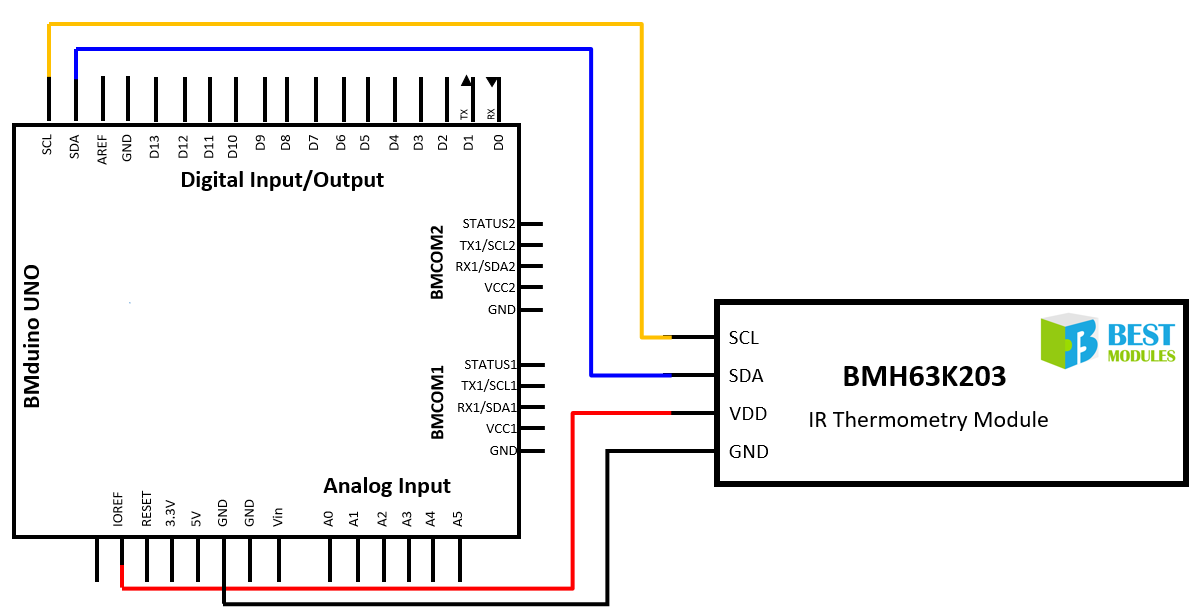
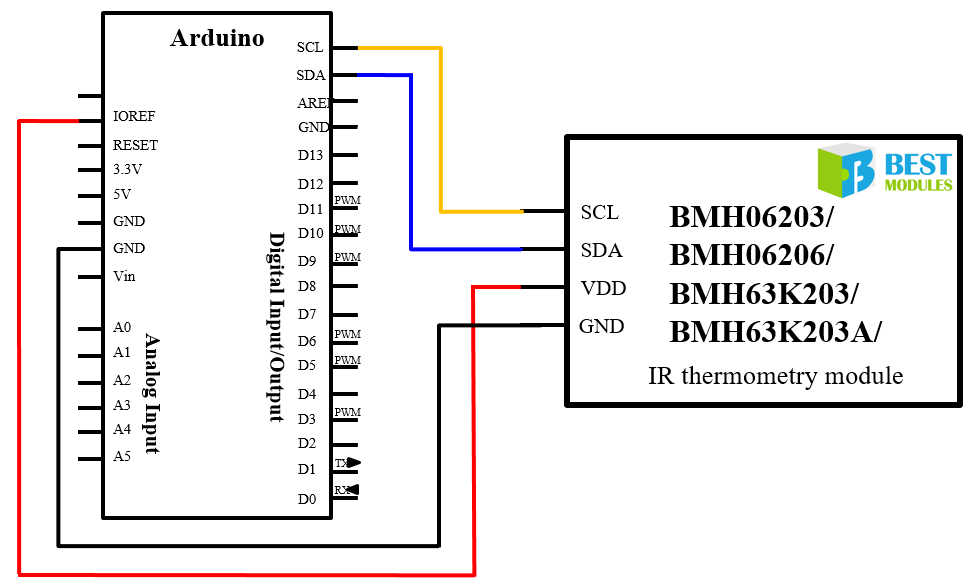
Add files via upload

Changed region(s): [[0.0, 0.0, 1.0, 1.0]]

diff --git a/src/BMH06203.cpp b/src/BMH06203.cpp
@@ -2,25 +2,26 @@
 File:         BMH06203.cpp
 Author:       BEST MODULES CORP.
 Description:  I2C communication with the BMH06203 and obtain the corresponding value 
-History：      V1.0.2  -- 2024-08-20
+Version：     V1.0.3	 -- 2025-07-11
 ******************************************************************/
 #include "BMH06203.h"
 
 /*************************************************
 Description:Constructor
 Parameters: *theWire: Wire object if your board has more than one I2C interface            
-Return:             
-Others:             
+Return:     none       
+Others:     none        
 *************************************************/
 BMH06203::BMH06203(TwoWire *theWire)
 {
   _wire = theWire;
 }
+
 /*************************************************
 Description:  Module Initial
 Parameters:   i2c_addr：Module IIC address       
 Return:       void         
-Others:            
+Others:       none     
 *************************************************/
 void BMH06203::begin(uint8_t  i2c_addr)
 {
@@ -39,7 +40,7 @@ Parameters:   TYPE:
                 0x09(OBJ_TEMP):Surface temperature of object 
                 0x0a(BODY_TEMP):Human body temperature 
 Return:       Temperature data,unit ℃
-Others:
+Others:       none
 *************************************************/
 float BMH06203::readTemperature(uint8_t TYPE)
 {
@@ -57,11 +58,12 @@ float BMH06203::readTemperature(uint8_t TYPE)
     }
     return 0;    
 }
+
 /*************************************************
 Description:  Enter halt mode
-Parameters:
+Parameters:   void
 Return:       void
-Others:
+Others:       none
 *************************************************/
 void BMH06203::sleep()
 {
@@ -69,6 +71,7 @@ void BMH06203::sleep()
     uint8_t haltbuf[4] = {0xFF,0x34,0x12,checksum};
     writeBytes(haltbuf,4);
 }
+
 /*************************************************
 Description:  Write EEPROM
 Parameters:   addr:EEPROM address,write value  set 08H @see BMH06203.h MODE_:
@@ -84,6 +87,7 @@ void BMH06203::writeEEPROM(uint8_t addr, uint16_t data)
     uint8_t EEPROMPWD[4] = {command,lowByte(data),highByte(data),checksum};
     writeBytes(EEPROMPWD,4);
 }
+
 /*************************************************
 Description:  Read EEPROM value
 Parameters:   addr:EEPROM addres
@@ -109,6 +113,7 @@ uint16_t BMH06203::readEEPROM(uint8_t addr)
         return 0;
     }
 }
+
 /*************************************************
 Description:  Set the output mode
 Parameters:   Mode:
@@ -117,7 +122,7 @@ Parameters:   Mode:
                 IO_MODE1 = 0x02,
                 IO_MODE2 = 0x06,      
 Return:       void          
-Others:            
+Others:       none     
 *************************************************/
 void BMH06203::setMode(uint8_t Mode)
 {
@@ -147,12 +152,13 @@ void BMH06203::setMode(uint8_t Mode)
     begin();
     writeEEPROM(0x08,Mode);
 }
+
 /*************************************************
 Description:  Set PWM mode, temperature range  
 Parameters:   min:  Set the minimum temperature 
               max:  Set the maximum temperatur
 Return:       void      
-Others:       
+Others:       none
 *************************************************/
 void BMH06203::setPWMParam(float min,float max)
 {
@@ -161,23 +167,25 @@ void BMH06203::setPWMParam(float min,float max)
   writeEEPROM(0x0A,_min); 
   writeEEPROM(0x0B,_max); 
 }
+
 /*************************************************
-Description:Set IO mode, temperature trigger threshold  
-Parameters: threshold: Set the temperature threshold      
-Return:     void     
-Others:       
+Description: Set IO mode, temperature trigger threshold  
+Parameters:  threshold: Set the temperature threshold      
+Return:      void     
+Others:      none 
 *************************************************/
 void BMH06203::setIOParam(float threshold)
 {
   uint16_t _threshold = threshold * 10;
   writeEEPROM(0x0C,_threshold); 
 }
+
 /**********************************************************
 Description: Write data
-Parameters: wbuf:The array for storing Data to be sent
-            wlen:Length of data sent
-Return:     void
-Others: 
+Parameters:  wbuf:The array for storing Data to be sent
+             wlen:Length of data sent
+Return:      void
+Others:      none
 **********************************************************/
 void BMH06203::writeBytes(uint8_t wbuf[], uint8_t wlen)
 {
@@ -193,14 +201,15 @@ void BMH06203::writeBytes(uint8_t wbuf[], uint8_t wlen)
     }
     delay(10);
 }
+
 /**********************************************************
 Description: Read data
-Parameters: rbuf: Used to store received data
-            rlen: Length of data to be read
-Return:     0:OK
-            1:CHECK_ERROR
-            2: timeout error
-Others: 
+Parameters:  rbuf: Used to store received data
+             rlen: Length of data to be read
+Return:      0:OK
+             1:CHECK_ERROR
+             2: timeout error
+Others:      none
 **********************************************************/
 uint8_t BMH06203::readBytes(uint8_t rbuf[], uint8_t rlen)
 {

diff --git a/src/BMH06203.h b/src/BMH06203.h
@@ -2,7 +2,7 @@
 File:       BMH06203.h
 Author:     BEST MODULES CORP.
 Description:Define classes and required variables
-History：		V1.0.2	 -- 2024-08-20
+Version：   V1.0.3	 -- 2025-07-11
 **************************************************/
 #ifndef _BMH06203_H__
 #define _BMH06203_H__

diff --git a/README.md b/README.md
@@ -1,11 +1,11 @@
 <div align=center>
-<img src="https://github.com/BestModules-Libraries/img/blob/main/BMH63K203_V1.0.png" width="480" height="240"> 
+<img src="https://github.com/BestModules-Libraries/img/blob/main/BMH63K203_V1.0.png" width="562" height="480"> 
 </div> 
 
 BMH06203 
 ===========================================================
 
-The Best Modules BMH06203 is an IR thermometry module, which uses the I2C communication method. This document provides the description of the BMH06203 Arduino Lib functions and how to install the Arduino Lib. The example demonstrates the function of obtaining the object surface temperature value.
+The Best Modules BMH06203/BMH06206 is an IR thermometry module, which uses the I2C communication method. This document provides the description of the BMH06203/BMH06206 Arduino Lib functions and how to install the Arduino Lib. The example demonstrates the function of obtaining the object surface temperature value.
 
 #### Applicable types:
 <div align=center>
@@ -13,8 +13,9 @@ The Best Modules BMH06203 is an IR thermometry module, which uses the I2C commun
 |Part No.   |Description                   |
 |:---------:|:----------------------------:|
 |BMH06203   |IR thermometry module|
-|BMH63K203  |IR thermometry module,contains an adapter cable and the BMH06203-41 module|
-
+|BMH06206   |IR thermometry module|
+|BMH63K203  |IR thermometry module,contains an adapter cable and the BMH06203-41/BMH06206-41 module|
+|BMH63K203A  |IR thermometry module,contains an adapter cable and the BMH06203-41/BMH06206-41 module|
 </div> 
 
 This library can be installed via the Arduino Library manager. Search for **BMH06203**. 
@@ -41,6 +42,8 @@ Version History
 &emsp;&emsp;- Perfect example(setMode_I2C);  
 &emsp;&emsp;- Modified function(setMode,setPWMParam，setIOParam);  
 &emsp;&emsp;- Changed the picture in examples;
+* **V1.0.3**  
+&emsp;&emsp;- Add applicable models: BMH06206/BMH63K203A; 
 
 License Information
 -------------------
